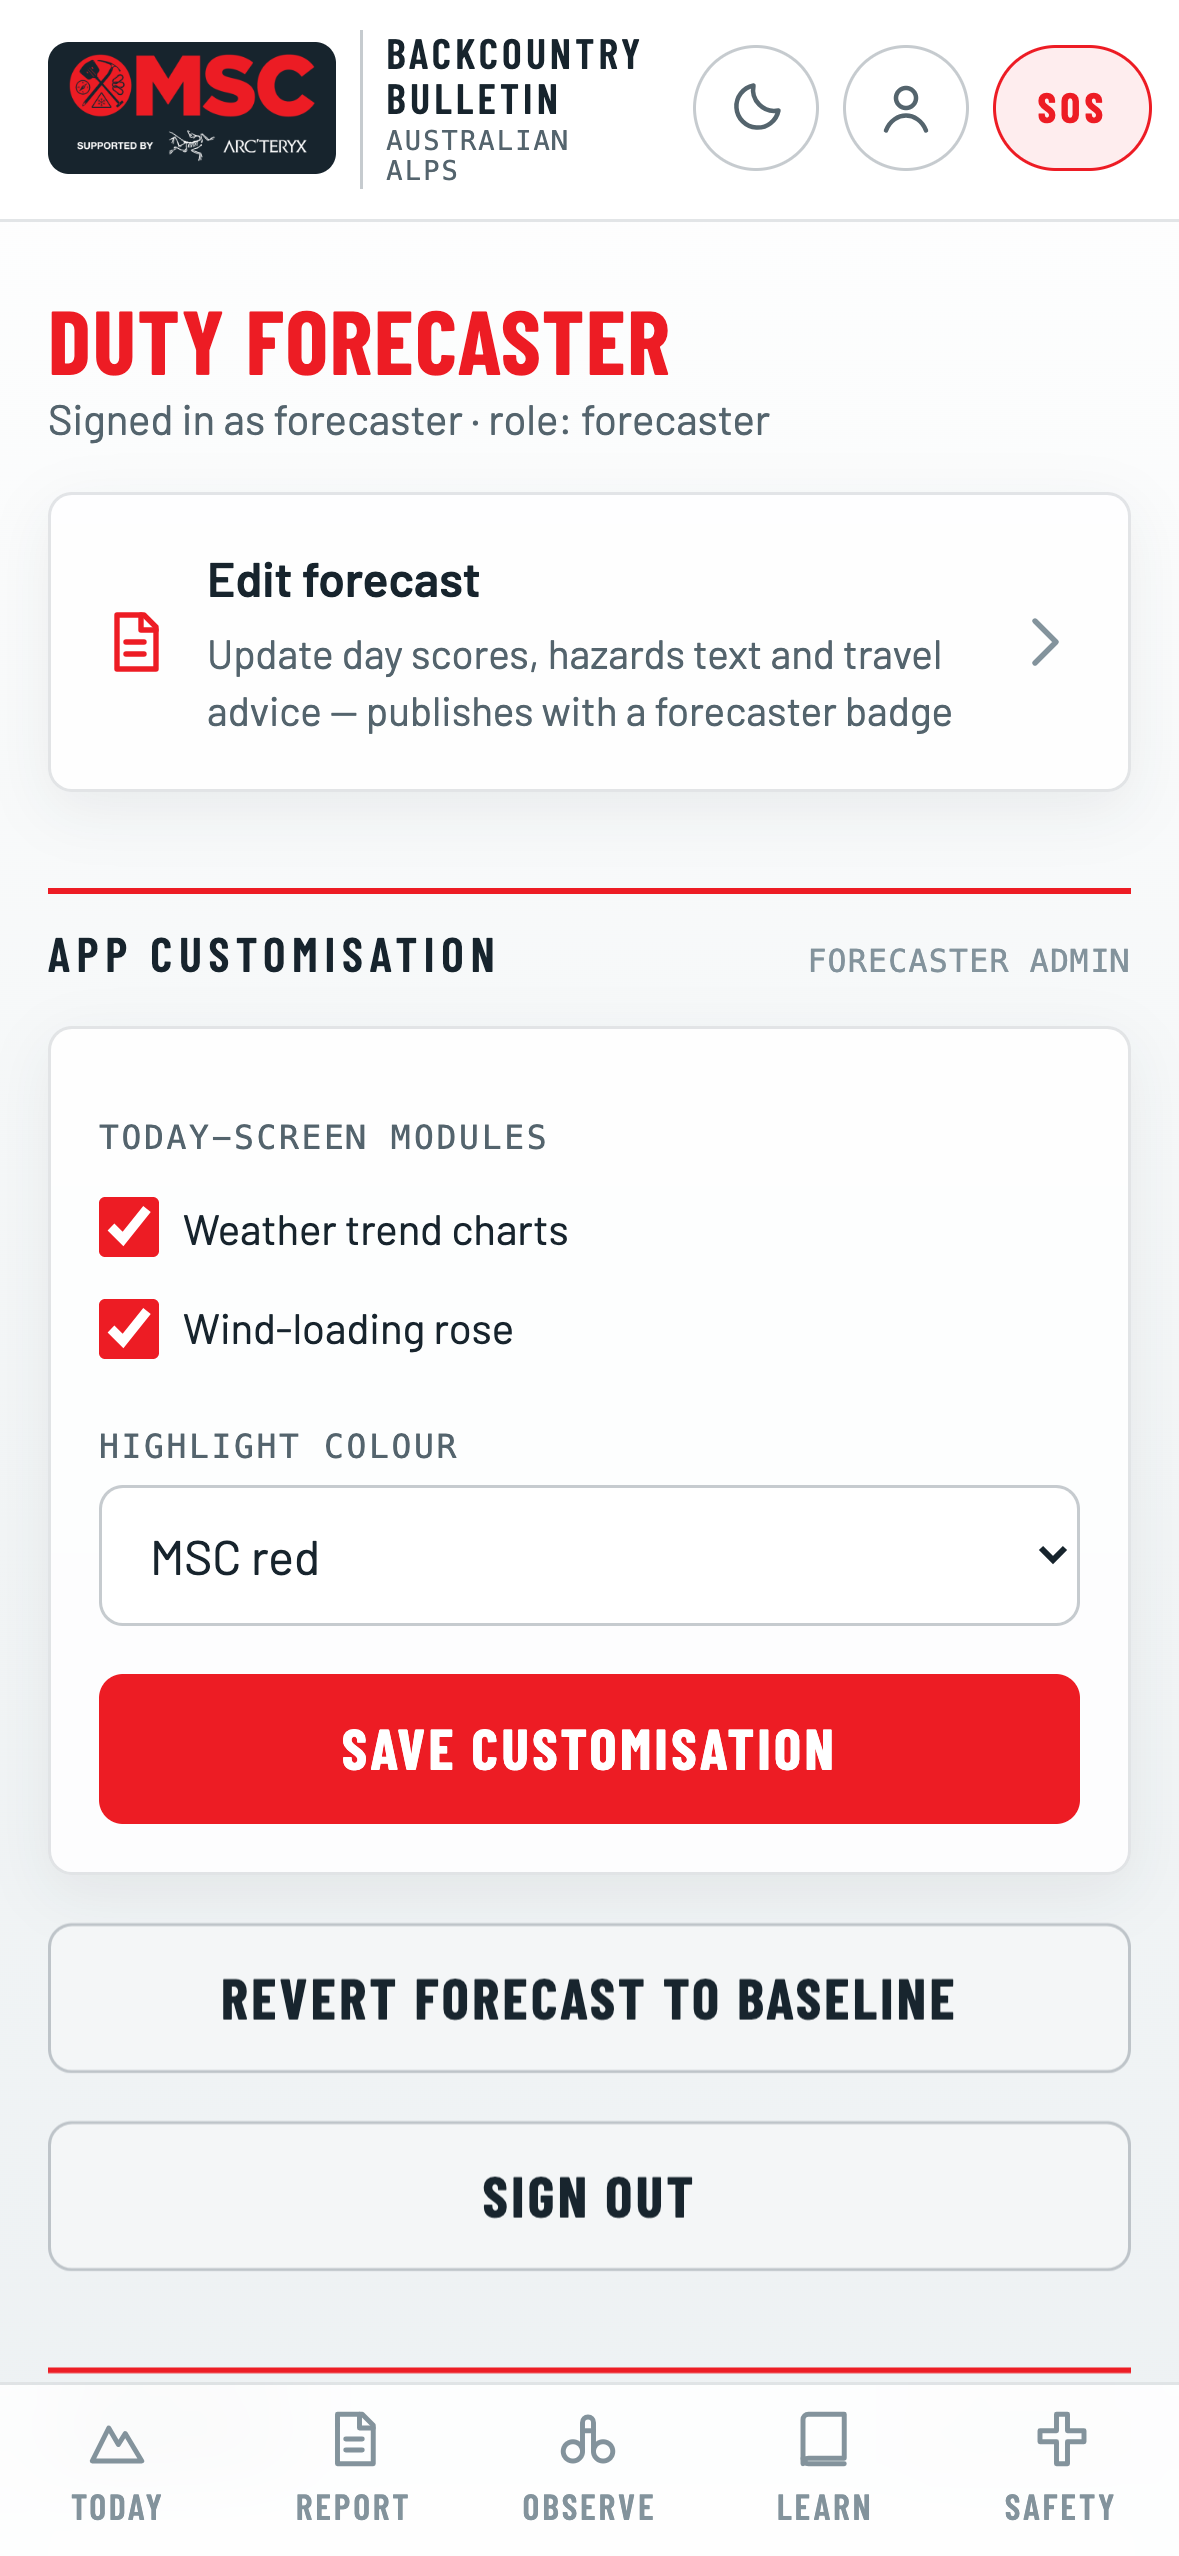
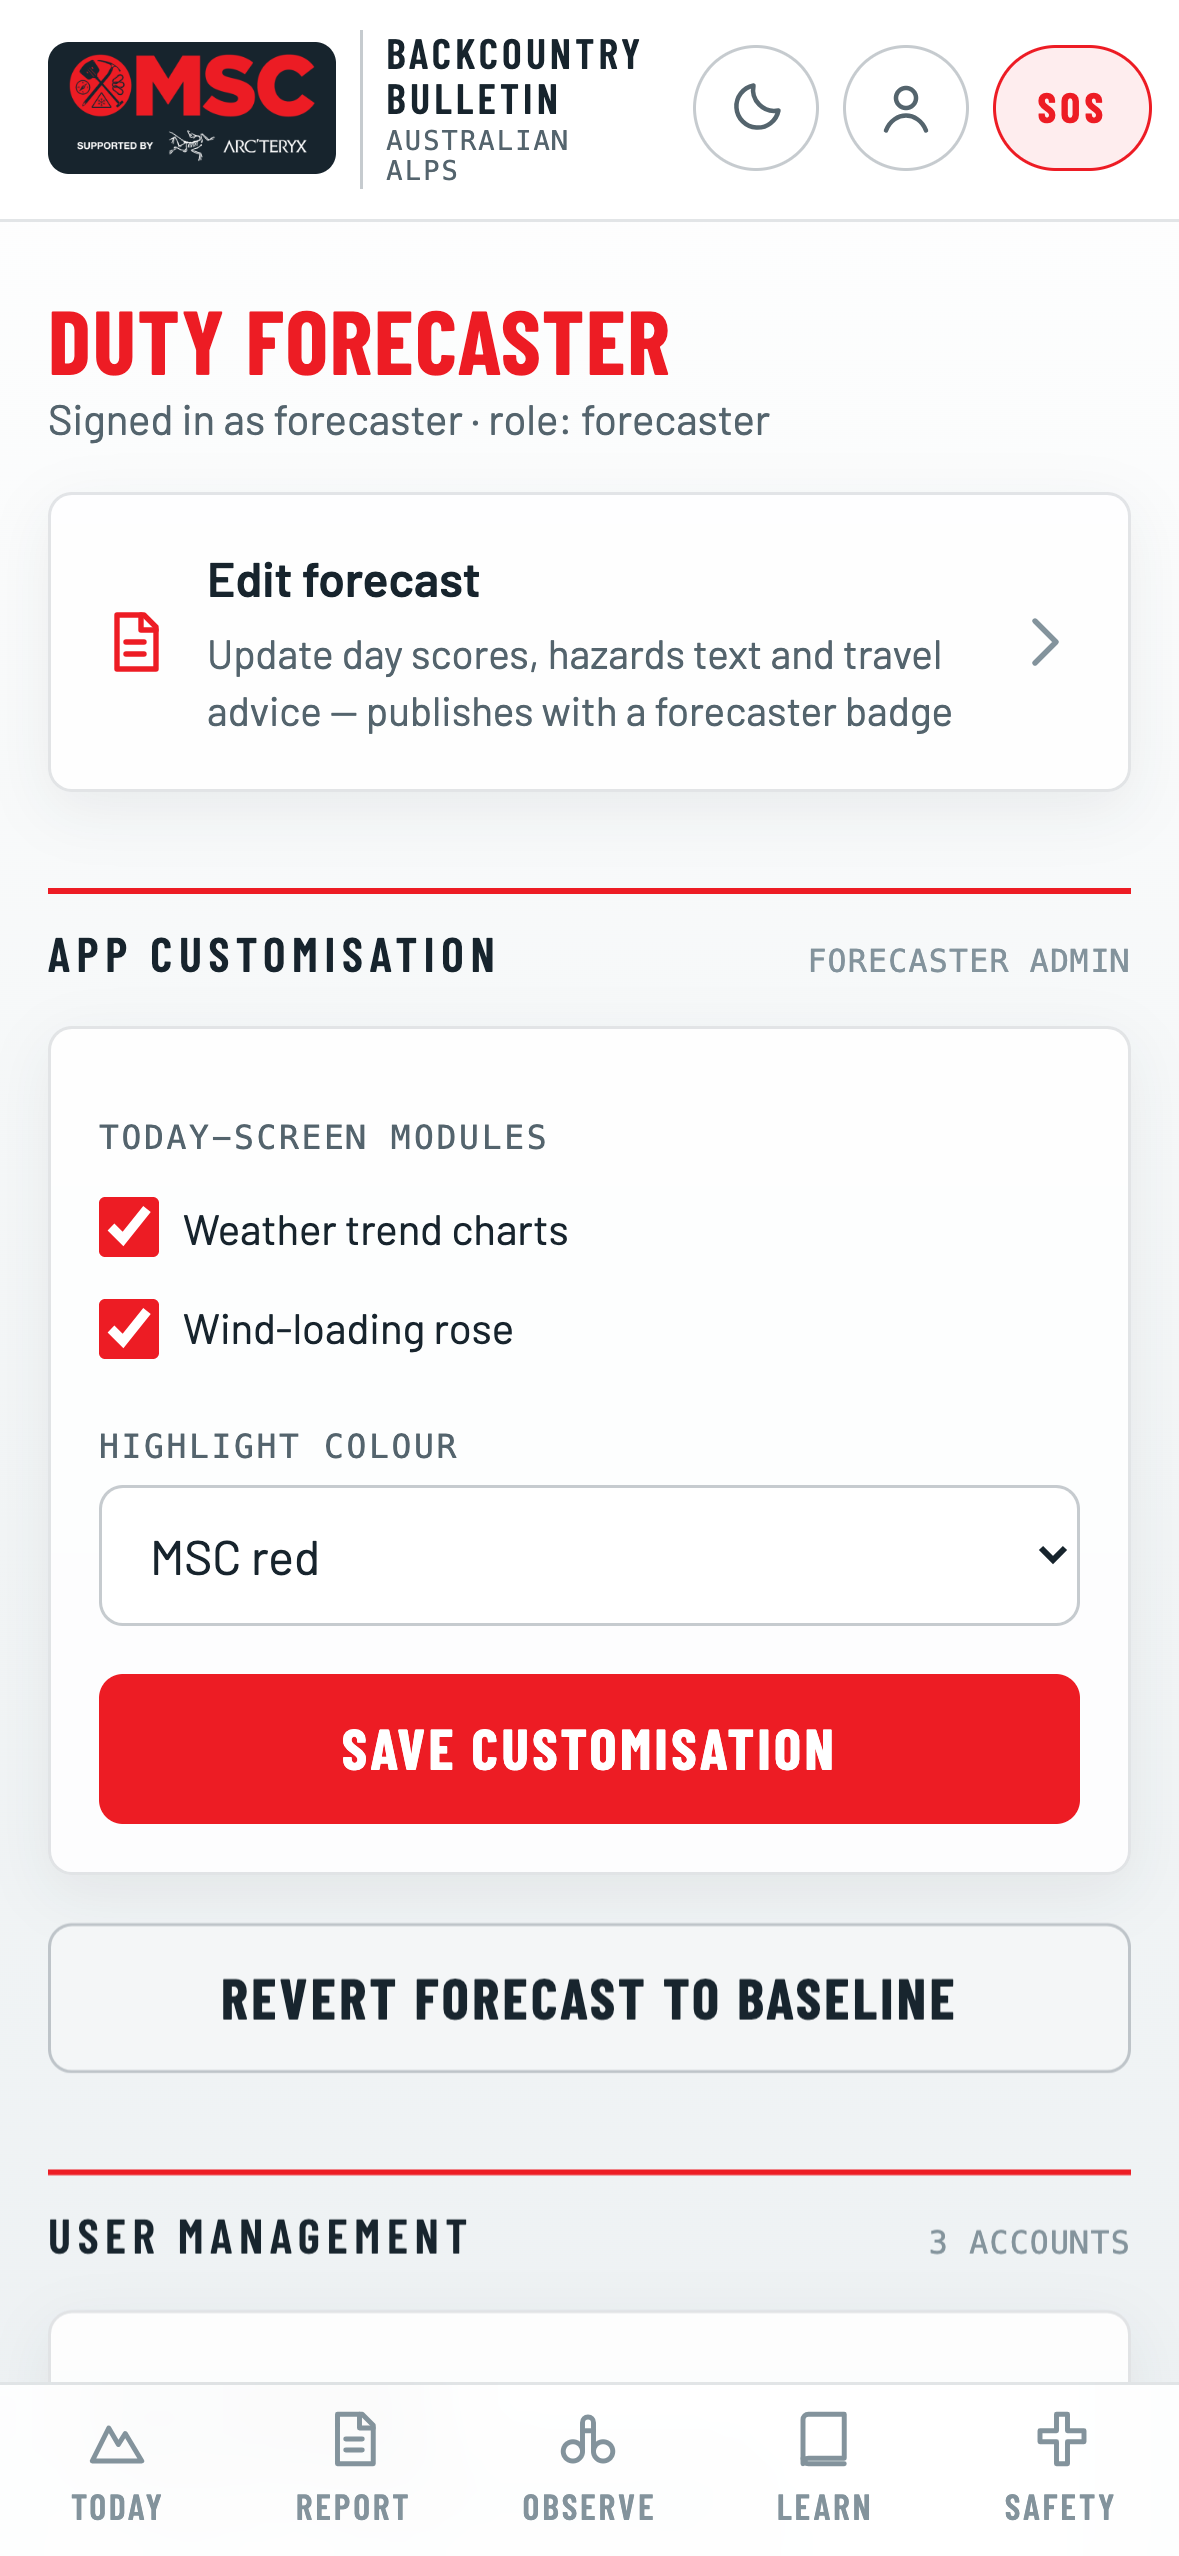
Admin user management + migration bundle; deflake verify harness
- Forecaster account screen: create/remove accounts (member/observer/
  forecaster tiers), salted SHA-256 PIN hashes, seeded demo users kept.
- Migration bundle: JSON export/import of accounts (hash records only),
  observations, forecast overrides and settings — staged-auth path to a
  future hosted backend. Validated on import.
- Login checks admin-created users alongside seeded ones; SW cache v5.
- verify.js: route interactions through waitForSelector helpers
  (page.type/click one-shot lookups intermittently go stale after
  same-document hash navigations) and re-render via render() instead of
  the #/x hash-hop when the target hash is already current.

Claude-Session: https://claude.ai/code/session_01PzEPerwF2wNidpoC1w1n6z

Changed region(s): [[0.0305, 0.8345, 0.3969, 0.8963], [0.3969, 0.8345, 0.6107, 0.8654], [0.8244, 0.8345, 0.9771, 0.8963]]

diff --git a/app/js/app.js b/app/js/app.js
@@ -711,7 +711,40 @@ function viewAccount() {
       </select>
       <button class="btn" type="submit">Save customisation</button>
     </form>
-    <button class="btn secondary" id="clear-override">Revert forecast to baseline</button>` : ''}
+    <button class="btn secondary" id="clear-override">Revert forecast to baseline</button>
+    ${rule('User management', `${Store.allUsers().length} accounts`)}
+    <div class="card">
+      ${Store.allUsers().map((u) => `
+        <div class="row user-row">
+          <div class="grow"><strong>${esc(u.name)}</strong>
+            <div class="sub">${esc(u.user)} · ${esc(u.role)}${u.seeded ? ' · built-in demo' : ''}</div></div>
+          ${u.seeded ? '' : `<button class="mini-btn danger" data-del-user="${esc(u.user)}">Remove</button>`}
+        </div>`).join('')}
+    </div>
+    <form id="adduser-form" class="card">
+      <h3>Add account</h3>
+      <div class="ed-grid">
+        <div><label for="au-name">Full name</label><input id="au-name" name="name" maxlength="60" required></div>
+        <div><label for="au-user">Username</label><input id="au-user" name="user" maxlength="40" autocapitalize="none" required></div>
+        <div><label for="au-pin">PIN (4–8 digits)</label><input id="au-pin" name="pin" inputmode="numeric" maxlength="8" required></div>
+        <div><label for="au-role">Access tier</label>
+          <select id="au-role" name="role">
+            <option value="member">Member</option>
+            <option value="observer">Observer</option>
+            <option value="forecaster">Forecaster</option>
+          </select></div>
+      </div>
+      <p class="note" id="au-err" role="alert" hidden></p>
+      <button class="btn" type="submit">Create account</button>
+    </form>
+    ${rule('Migration', 'To a hosted backend')}
+    <div class="card">
+      <p class="sub">Credentials are stored as salted SHA-256 hashes — never plaintext. The export bundle carries those hash records plus observations, forecast updates and settings; a hosted backend imports it and verifies users with the same scheme on first login, then re-hashes to its own. That's the standard staged auth migration, ready to run when the backend lands.</p>
+      <button class="btn secondary" id="export-btn">Export migration bundle (JSON)</button>
+      <label for="import-file" style="margin-top:14px">Import bundle</label>
+      <input id="import-file" type="file" accept="application/json">
+      <p class="note" id="import-msg" hidden></p>
+    </div>` : ''}
     ${s.role === 'observer' ? `
     <a class="card tappable" href="#/observe"><div class="row">${icon('binoculars', 'icon accent')}
       <div class="grow"><h3>Record field data</h3><div class="sub">Snow profiles, stability tests and observations — CAA-style conventions</div></div>
@@ -1039,6 +1072,42 @@ function bindView() {
   });
   const co = $('#clear-override');
   if (co) co.addEventListener('click', () => { Store.clearOverride(store.region); render(); });
+
+  // user management (forecaster/admin)
+  const auf = $('#adduser-form');
+  if (auf) auf.addEventListener('submit', async (e) => {
+    e.preventDefault();
+    const d = Object.fromEntries(new FormData(auf).entries());
+    const res = await Store.addUser(d);
+    if (res.error) {
+      const err = $('#au-err'); err.textContent = res.error; err.removeAttribute('hidden');
+    } else render();
+  });
+  document.querySelectorAll('[data-del-user]').forEach((b) =>
+    b.addEventListener('click', () => {
+      if (confirm(`Remove account "${b.dataset.delUser}"?`)) { Store.removeUser(b.dataset.delUser); render(); }
+    }));
+  const ex = $('#export-btn');
+  if (ex) ex.addEventListener('click', () => {
+    const blob = new Blob([JSON.stringify(Store.exportBundle(), null, 2)], { type: 'application/json' });
+    const a = document.createElement('a');
+    a.href = URL.createObjectURL(blob);
+    a.download = 'msc-app-migration.json';
+    a.click();
+    setTimeout(() => URL.revokeObjectURL(a.href), 5000);
+  });
+  const imf = $('#import-file');
+  if (imf) imf.addEventListener('change', async () => {
+    const f = imf.files?.[0];
+    if (!f || f.size > 2_000_000) return;
+    try {
+      const res = Store.importBundle(JSON.parse(await f.text()));
+      const msg = $('#import-msg');
+      msg.textContent = res.error || `Imported ${res.users} account(s).`;
+      msg.removeAttribute('hidden');
+      if (!res.error) setTimeout(render, 900);
+    } catch { const msg = $('#import-msg'); msg.textContent = 'Could not read that file as JSON.'; msg.removeAttribute('hidden'); }
+  });
 
   // forecast editor
   const ef = $('#edit-form');

diff --git a/scripts/verify.js b/scripts/verify.js
@@ -25,6 +25,13 @@ const iPhone = {
   // deterministic tests: pin the app to bundled sample data (no live fetch)
   await page.evaluateOnNewDocument(() => localStorage.setItem('msc.disableLive', '1'));
 
+  // page.type/page.click do a one-shot element lookup that intermittently
+  // goes stale after same-document hash navigations (evaluate() keeps seeing
+  // the element; the isolated-world query returns null). waitForSelector
+  // polls, so interactions ride out the context churn.
+  const type = async (sel, text) => (await page.waitForSelector(sel, { timeout: 8000 })).type(text);
+  const click = async (sel) => (await page.waitForSelector(sel, { timeout: 8000 })).click();
+
   const problems = [];
   page.on('console', (m) => { if (m.type() === 'error') problems.push(`console error: ${m.text()}`); });
   page.on('pageerror', (e) => problems.push(`page error: ${e.message}`));
@@ -77,26 +84,26 @@ const iPhone = {
   // interactions: hazard-chip sheet and aspect-rose sheet
   await page.evaluate(() => { localStorage.setItem('msc.region', 'main-range'); location.hash = '#/today'; });
   await new Promise((r) => setTimeout(r, 450));
-  await page.click('[data-hazard="exposure"]');
+  await click('[data-hazard="exposure"]');
   await new Promise((r) => setTimeout(r, 350));
   let sheetText = await page.evaluate(() => document.querySelector('#sheet-root .sheet')?.innerText || '');
   if (!sheetText.toLowerCase().includes('exposure')) problems.push('hazard sheet did not open');
   await page.screenshot({ path: path.join(OUT, 'sheet-hazard.png') });
-  await page.click('.sheet-close');
+  await click('.sheet-close');
   await new Promise((r) => setTimeout(r, 300));
-  await page.click('[data-aspect="SE"]');
+  await click('[data-aspect="SE"]');
   await new Promise((r) => setTimeout(r, 350));
   sheetText = await page.evaluate(() => document.querySelector('#sheet-root .sheet')?.innerText || '');
   if (!sheetText.toLowerCase().includes('south-east')) problems.push('aspect sheet did not open');
   await page.screenshot({ path: path.join(OUT, 'sheet-aspect.png') });
-  await page.click('.sheet-backdrop');
+  await click('.sheet-backdrop');
 
   // account flow: forecaster login → editor gate opens
   await page.evaluate(() => { localStorage.clear(); location.hash = '#/account'; });
   await new Promise((r) => setTimeout(r, 450));
-  await page.type('#lg-user', 'forecaster');
-  await page.type('#lg-pin', '2626');
-  await page.click('#login-form .btn');
+  await type('#lg-user', 'forecaster');
+  await type('#lg-pin', '2626');
+  await click('#login-form .btn');
   await new Promise((r) => setTimeout(r, 400));
   const acctText = await page.evaluate(() => document.querySelector('#view').innerText.toLowerCase());
   if (!acctText.includes('edit forecast')) problems.push('forecaster login did not unlock editor');
@@ -107,12 +114,36 @@ const iPhone = {
   if (!editText.includes('publish update')) problems.push('forecast editor did not render');
   await page.screenshot({ path: path.join(OUT, 'editor.png') });
 
-  // observer flow: field-data form renders
-  await page.evaluate(() => { localStorage.removeItem('msc.session'); location.hash = '#/account'; });
+  // admin user management: create account, sign in as it
+  await page.evaluate(() => { location.hash = '#/account'; });
   await new Promise((r) => setTimeout(r, 450));
-  await page.type('#lg-user', 'observer');
-  await page.type('#lg-pin', '1850');
-  await page.click('#login-form .btn');
+  await page.evaluate(() => {
+    document.getElementById('au-name').value = 'Test Patroller';
+    document.getElementById('au-user').value = 'patroller1';
+    document.getElementById('au-pin').value = '4321';
+    document.getElementById('au-role').value = 'observer';
+    document.getElementById('adduser-form').requestSubmit();
+  });
+  await new Promise((r) => setTimeout(r, 500));
+  const userList = await page.evaluate(() => document.querySelector('#view').innerText.toLowerCase());
+  if (!userList.includes('patroller1')) problems.push('admin user creation failed');
+  await page.evaluate(() => { localStorage.removeItem('msc.session'); render(); });
+  await new Promise((r) => setTimeout(r, 450));
+  await type('#lg-user', 'patroller1');
+  await type('#lg-pin', '4321');
+  await click('#login-form .btn');
+  await new Promise((r) => setTimeout(r, 500));
+  const newUserAcct = await page.evaluate(() => document.querySelector('#view').innerText.toLowerCase());
+  if (!newUserAcct.includes('test patroller')) problems.push('created user could not sign in');
+
+  // observer flow: field-data form renders
+  // (hash is already #/account here, so assigning it again would be a no-op
+  // — re-render explicitly after dropping the session)
+  await page.evaluate(() => { localStorage.removeItem('msc.session'); render(); });
+  await new Promise((r) => setTimeout(r, 450));
+  await type('#lg-user', 'observer');
+  await type('#lg-pin', '1850');
+  await click('#login-form .btn');
   await new Promise((r) => setTimeout(r, 400));
   await page.evaluate(() => { location.hash = '#/observe'; });
   await new Promise((r) => setTimeout(r, 450));
@@ -127,9 +158,9 @@ const iPhone = {
   if (!archText.includes('member feature')) problems.push('archive not gated for base tier');
   await page.evaluate(() => { location.hash = '#/account'; });
   await new Promise((r) => setTimeout(r, 450));
-  await page.type('#lg-user', 'member');
-  await page.type('#lg-pin', '0000');
-  await page.click('#login-form .btn');
+  await type('#lg-user', 'member');
+  await type('#lg-pin', '0000');
+  await click('#login-form .btn');
   await new Promise((r) => setTimeout(r, 400));
   await page.evaluate(() => { location.hash = '#/archive'; });
   await new Promise((r) => setTimeout(r, 450));
@@ -140,8 +171,8 @@ const iPhone = {
   // dark mode toggle
   await page.evaluate(() => { localStorage.removeItem('msc.session'); location.hash = '#/today'; });
   await new Promise((r) => setTimeout(r, 400));
-  // DOM-dispatched click: hit-testing is separately covered (elementFromPoint
-  // probe); long emulated sessions made page.click flaky here.
+  // DOM-dispatched click: page.click's one-shot lookup can go stale after
+  // hash navigations (same churn the type/click helpers above absorb).
   const themeBefore = await page.evaluate(() => document.documentElement.getAttribute('data-theme'));
   await page.evaluate(() => document.getElementById('theme-btn').click());
   await new Promise((r) => setTimeout(r, 250));

diff --git a/app/js/store.js b/app/js/store.js
@@ -13,7 +13,8 @@ const Store = (() => {
     theme: 'msc.theme',
     custom: 'msc.custom',
     override: 'msc.override.', // + regionId
-    obs: 'msc.fieldObs'
+    obs: 'msc.fieldObs',
+    users: 'msc.users' // admin-created accounts (hashed, never plaintext)
   };
 
   // seeded demo accounts (documented on the Account screen).
@@ -42,11 +43,65 @@ const Store = (() => {
   const write = (k, v) => localStorage.setItem(k, JSON.stringify(v));
 
   return {
+    // ---- users (seeded demo + admin-created) ----
+    customUsers() { return read(K.users, []); },
+    allUsers() { return [...USERS.map((u) => ({ ...u, seeded: true })), ...this.customUsers()]; },
+    async addUser({ name, user, pin, role }) {
+      const uname = String(user).trim().toLowerCase().slice(0, 40);
+      if (!uname || !/^[a-z0-9_.-]+$/.test(uname)) return { error: 'Username: letters, numbers, dot, dash only.' };
+      if (this.allUsers().some((x) => x.user === uname)) return { error: 'That username already exists.' };
+      if (!/^\d{4,8}$/.test(String(pin).trim())) return { error: 'PIN must be 4–8 digits.' };
+      if (!['member', 'observer', 'forecaster'].includes(role)) return { error: 'Invalid role.' };
+      const hash = await sha256Hex(`msc:${uname}:${String(pin).trim()}`);
+      const list = this.customUsers();
+      list.push({ user: uname, name: String(name).trim().slice(0, 60) || uname, role, hash, created: Date.now() });
+      write(K.users, list);
+      return { ok: true };
+    },
+    removeUser(uname) {
+      write(K.users, this.customUsers().filter((u) => u.user !== uname));
+      const s = this.session();
+      if (s && s.user === uname) this.logout();
+    },
+
+    // ---- migration (to a future hosted backend) ----
+    // Exports salted SHA-256 credential records — never plaintext (plaintext
+    // is never stored, so "transferring passwords" means transferring hashes;
+    // the new system verifies with the same scheme on first login, then
+    // re-hashes to its own. Standard staged auth migration.)
+    exportBundle() {
+      return {
+        format: 'msc-app-migration',
+        version: 1,
+        exported: new Date().toISOString(),
+        hashScheme: 'sha256(msc:<user>:<pin>)',
+        users: this.customUsers(),
+        observations: this.observations(),
+        overrides: Object.fromEntries(
+          ['main-range', 'dividing-range'].map((r) => [r, this.override(r)]).filter(([, v]) => v)
+        ),
+        settings: this.custom()
+      };
+    },
+    importBundle(bundle) {
+      if (bundle?.format !== 'msc-app-migration' || bundle.version !== 1) {
+        return { error: 'Not a valid migration bundle.' };
+      }
+      const clean = (Array.isArray(bundle.users) ? bundle.users : []).filter((u) =>
+        typeof u?.user === 'string' && /^[a-z0-9_.-]{1,40}$/.test(u.user) &&
+        typeof u?.hash === 'string' && /^[0-9a-f]{64}$/.test(u.hash) &&
+        ['member', 'observer', 'forecaster'].includes(u.role)
+      ).map((u) => ({ user: u.user, name: String(u.name || u.user).slice(0, 60), role: u.role, hash: u.hash, created: u.created || Date.now() }));
+      write(K.users, clean);
+      if (Array.isArray(bundle.observations)) write(K.obs, bundle.observations.slice(0, 200));
+      return { ok: true, users: clean.length };
+    },
+
     // ---- auth ----
     async login(user, pin) {
       const uname = String(user).trim().toLowerCase().slice(0, 40);
       const hash = await sha256Hex(`msc:${uname}:${String(pin).trim()}`);
-      const u = USERS.find((x) => x.user === uname && x.hash === hash);
+      const u = this.allUsers().find((x) => x.user === uname && x.hash === hash);
       if (!u) return null;
       const session = { user: u.user, name: u.name, role: u.role, since: Date.now() };
       write(K.session, session);

diff --git a/app/css/app.css b/app/css/app.css
@@ -512,6 +512,8 @@ input:focus, textarea:focus, select:focus, button:focus-visible, a:focus-visible
 }
 .mini-btn.danger { color: var(--dgr-high); border-color: var(--dgr-high); }
 .update-note { border-left: 3px solid var(--haz-blue); }
+.user-row { padding: 8px 0; border-bottom: 1px solid var(--line); }
+.user-row:last-child { border-bottom: 0; }
 
 .btn {
   display: flex; align-items: center; justify-content: center; gap: var(--space-2);

diff --git a/app/sw.js b/app/sw.js
@@ -1,6 +1,6 @@
 // MSC offline-first service worker — cache the full app shell so the app
 // works with no reception in the backcountry.
-const CACHE = 'msc-v4';
+const CACHE = 'msc-v5';
 const ASSETS = [
   './',
   './index.html',